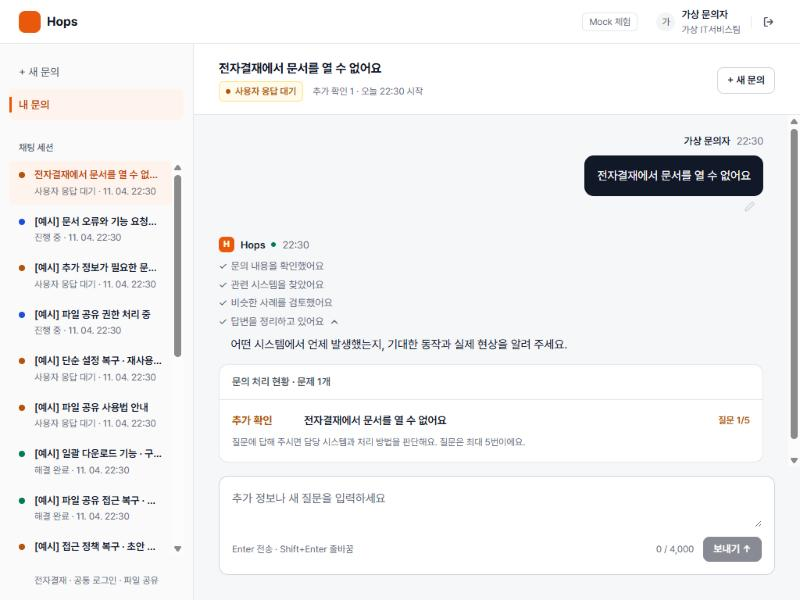
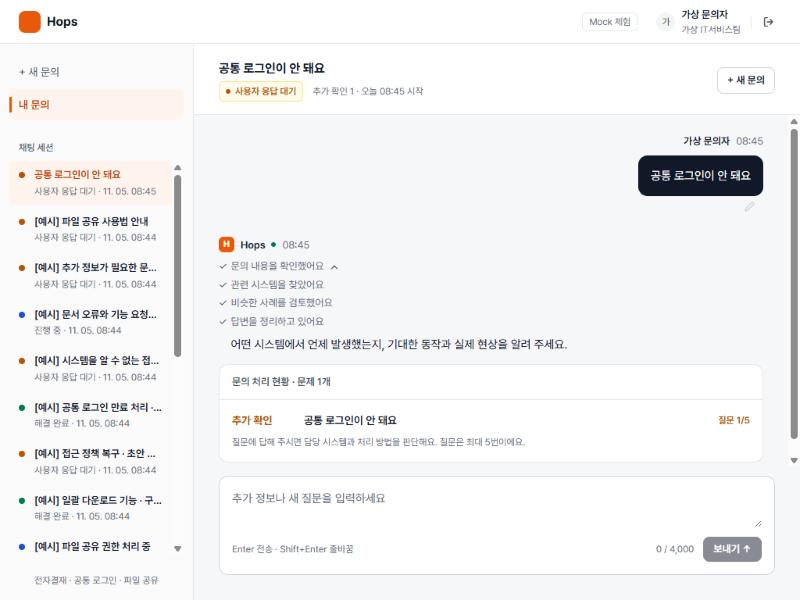
fix(chat): 진행 단계를 펼치면 접기 버튼을 맨 위 단계 옆에 표시
펼친 상태에서 접기 버튼이 마지막 단계 옆에 있어 목록 시작 위치와 떨어져 보였다.
접기·펼치기 버튼을 항상 보이는 목록의 첫 단계 옆에 둔다.
접힌 상태에서는 최신 단계 하나만 보이므로 위치가 기존과 같다.

검증: eslint, prettier --check, typecheck, chat 테스트 통과(6 passed),
mock 데모에서 분석 중·완료 기록 모두 펼친 뒤 버튼 위치 확인
Refs #134

diff --git a/frontend/src/features/chat/components/ProgressSteps.tsx b/frontend/src/features/chat/components/ProgressSteps.tsx
@@ -17,8 +17,8 @@ export function ProgressSteps({ steps, done = false }: { steps: ProgressStep[]; 
       {shown.map((step) => (
         <li key={step.stepNo} data-current={(!done && step === latest) || undefined}>
           {step.text}
-          {/* 펼침 여부와 관계없이 항상 보이는 최신 단계 문장 바로 뒤에 둔다. */}
-          {step === latest && collapsible && (
+          {/* 목록 맨 위 단계 문장 바로 뒤에 둔다. 접혀 있으면 최신 단계, 펼치면 첫 단계다. */}
+          {step === shown[0] && collapsible && (
             <button
               type="button"
               className={styles.stepToggle}
